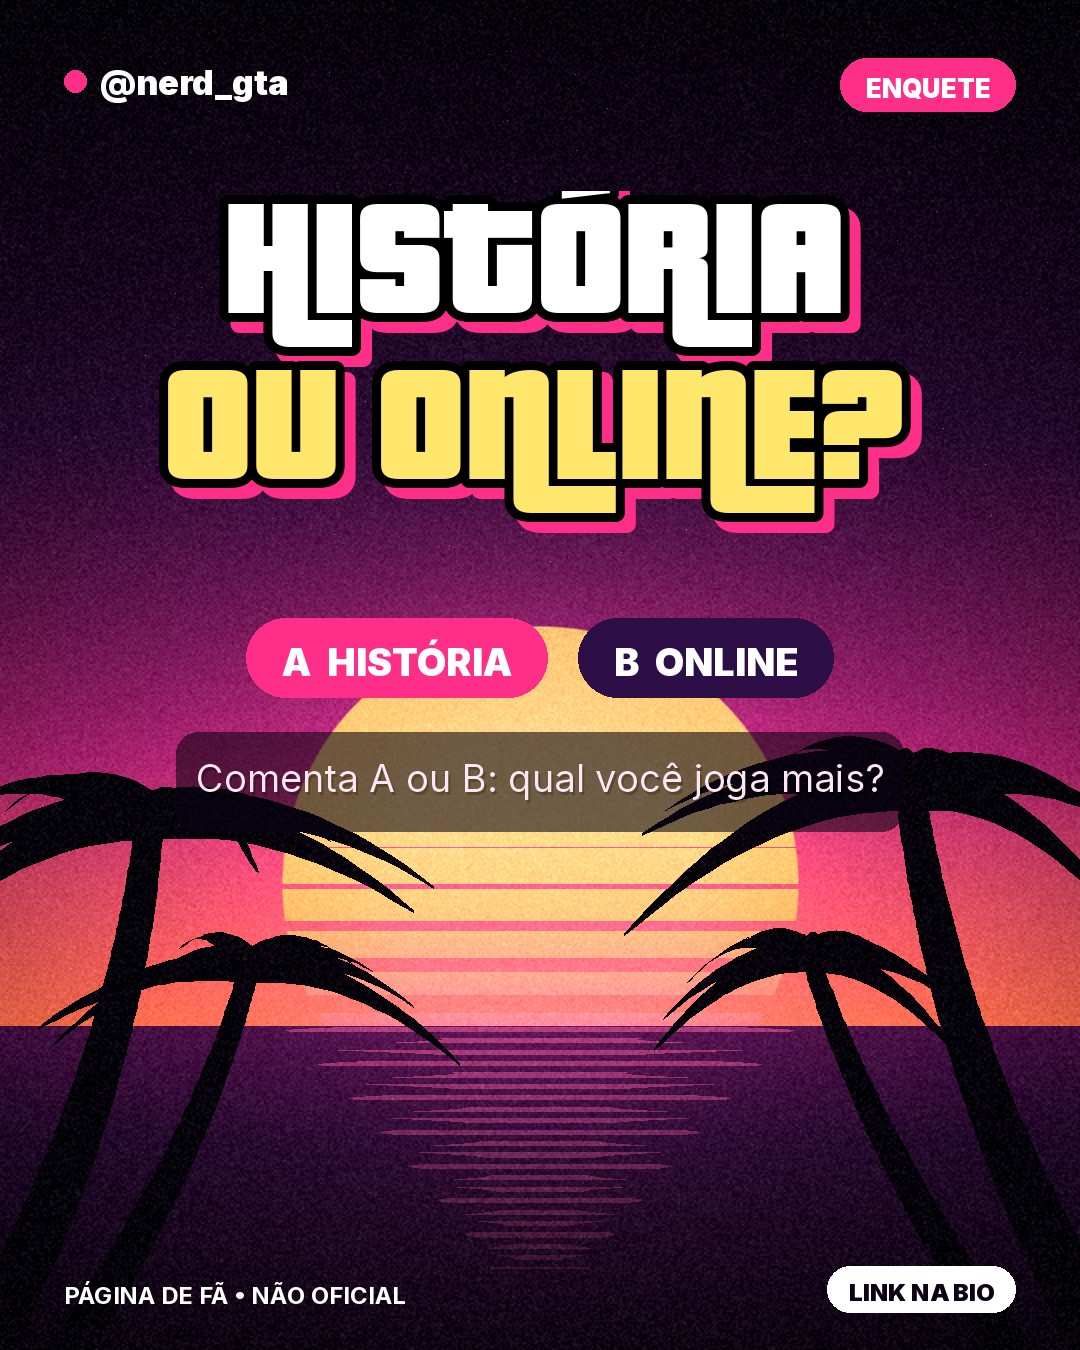
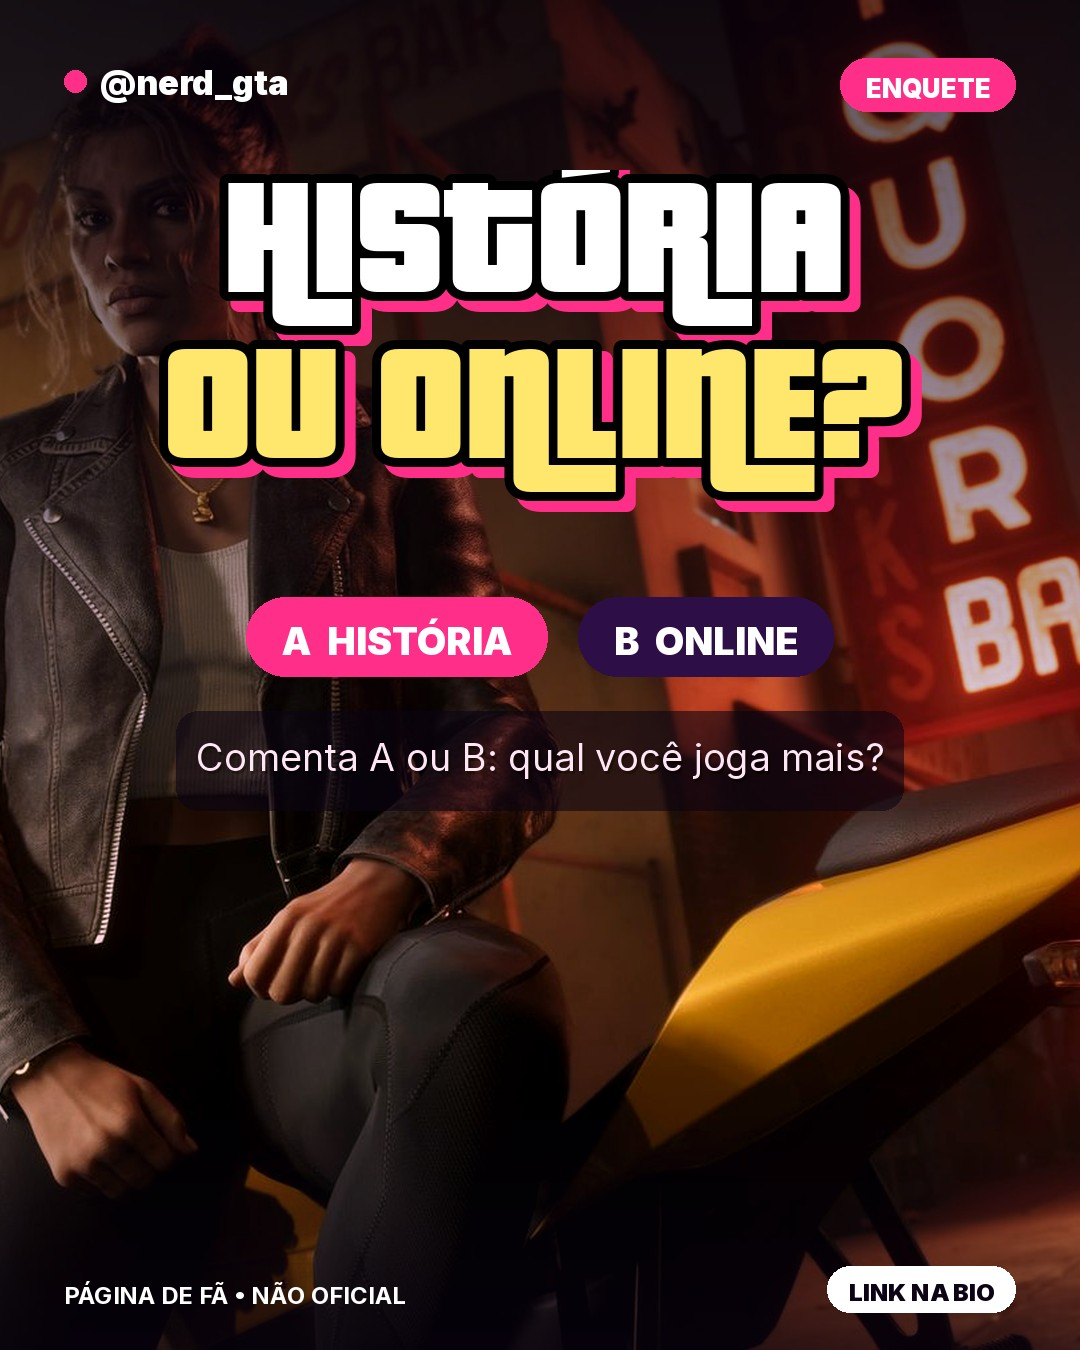
GTA 6: 3 posts por dia com imagens oficiais, legendas estratégicas e CTA de link na bio; regras da fábrica atualizadas
Claude-Session: https://claude.ai/code/session_0162u5fSJrH3qZtaNCqdGN6X

diff --git a/gta6/fabrica/REGRAS.md b/gta6/fabrica/REGRAS.md
@@ -26,13 +26,15 @@ Mistura do dia: 4 `reel` (posições 1, 4, 7, 10), 3 `carrossel` (2, 6, 9) e 3 `
 - 4 a 8 slides (máximo 10 imagens no total; com 9 ou mais slides o fecho sai sozinho).
 
 ### post
-`{"id":"03","formato":"post","tipo":"noticia|enquete|contagem|frase","linhas":[...],"destaque":[...],"texto":"(noticia)","fonte":"(noticia)","opcoes":["A","B"] (enquete),"sub":"...","legenda":"..."}`
+`{"id":"03","formato":"post","tipo":"noticia|enquete|contagem|frase","linhas":[...],"destaque":[...],"texto":"(noticia)","fonte":"(noticia)","opcoes":["A","B"] (enquete),"sub":"...","imagem":"gta6/banco/oficial/<arquivo>.jpg","cta_bio":"grupo|guia|ofertas|comunidade","legenda":"..."}`
+- **Todo post leva `imagem`** do `gta6/banco/oficial/` (imagens oficiais que o Victor subiu). Combine o tema: enquete de personagem → `pessoa-*`; notícia, lugar ou contagem → `lugar-*`; humor e frase → `arte-*`. Rode `ls gta6/banco/oficial` e não repita a mesma imagem nos últimos 7 dias (confira em `calendario.json`).
+- Formatos que viralizam (modelar o formato, nunca copiar texto de ninguém): enquete A ou B, notícia urgente com fonte, contagem regressiva, "você reparou nisso?" (detalhe visível na imagem oficial), personagem em destaque, frase de humor da espera, "marca o amigo que...".
 
 ### legenda
-Só o corpo: gancho de 1 linha + 1 linha com pergunta ou pedido (comenta, salva, marca). O gerador acrescenta sozinho o CTA do link na bio, o aviso de página de fã e as hashtags.
+Só o corpo: gancho forte de 1 linha (curiosidade, número ou polêmica leve) + 1 linha com pedido de ação (comenta, salva, marca, compartilha). Toda peça leva `cta_bio` escolhido pelo tema: `grupo` (ofertas e avisos), `guia` (lista de espera do guia), `ofertas` (setup, console, acessório), `comunidade` (enquete, papo, nostalgia). O gerador acrescenta o CTA do link na bio correspondente, o aviso de página de fã e as hashtags. Nos 3 posts do dia, use pelo menos 3 CTAs diferentes.
 
 ## Regras de conteúdo (obrigatórias)
-1. **Nada de material de terceiros.** Nunca baixar nem repostar vídeo, print ou arte de outro criador ou da Rockstar. Toda arte é gerada pelo `gerar.py`.
+1. **Nada de material de outros criadores.** Nunca baixar nem repostar vídeo, print ou arte de outras páginas. Imagens oficiais só as do `gta6/banco/oficial/` (enviadas pelo Victor), sempre dentro da moldura do `gerar.py`; fotos de cenário só do `gta6/banco/fotos/`.
 2. **Fato só com fonte.** Toda informação factual vem de página aberta e lida no dia (WebSearch + WebFetch) e entra em `fontes`. Sem fonte, vira opinião, enquete ou humor. Nunca inventar números, datas, preços, conteúdos de edição ou recursos do jogo.
 3. **Sem vazamento, pirataria, hack, mod de dinheiro, venda de conta.**
 4. **Sem spoiler da história** depois do lançamento sem avisar na 1ª linha ("ALERTA DE SPOILER").
